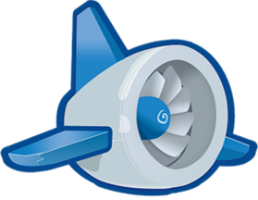
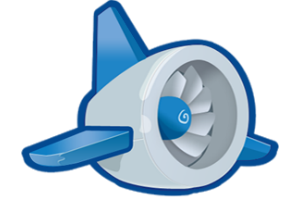
Fix gae.png, add blurb about github account

Changed region(s): [[0.0, 0.0, 1.0, 0.99], [0.4031, 0.33, 0.4341, 0.36]]

diff --git a/index.html b/index.html
@@ -17,6 +17,14 @@
     </header>
 
     <div class="project">
+      <img src="">
+
+      <p>This is a selection of what I think my most interesting projects are;
+      if you're interested in seeing more, you can look at my <a
+        href="http://github.com/haldean">Github account</a>.</p>
+    </div>
+
+    <div class="project">
       <img src="gae.png" alt="app engine logo">
 
       <p>The <strong>
